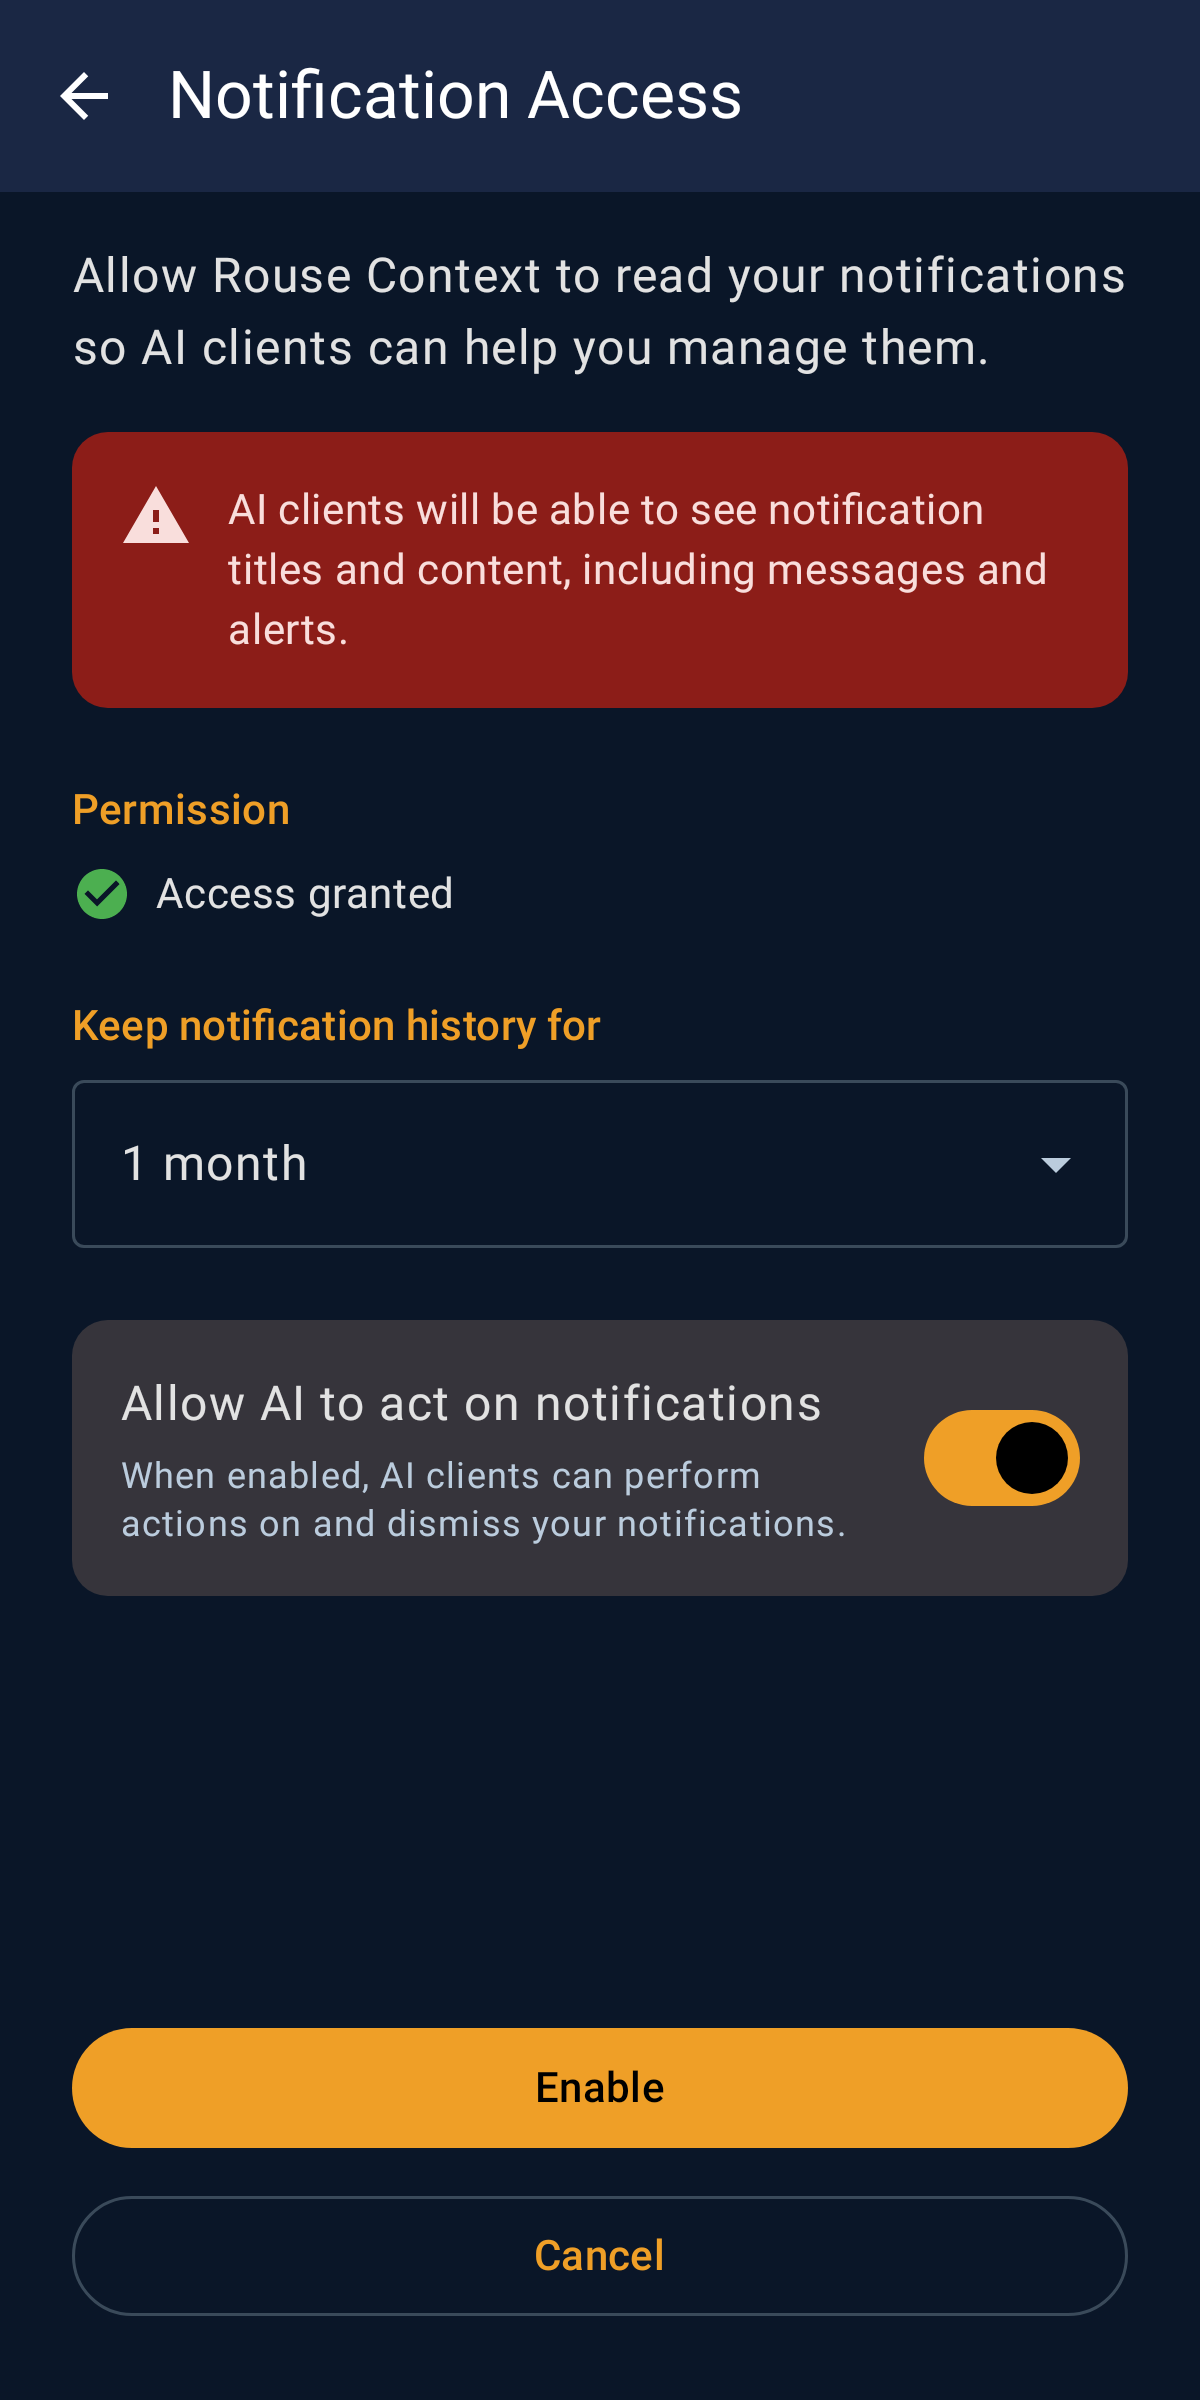
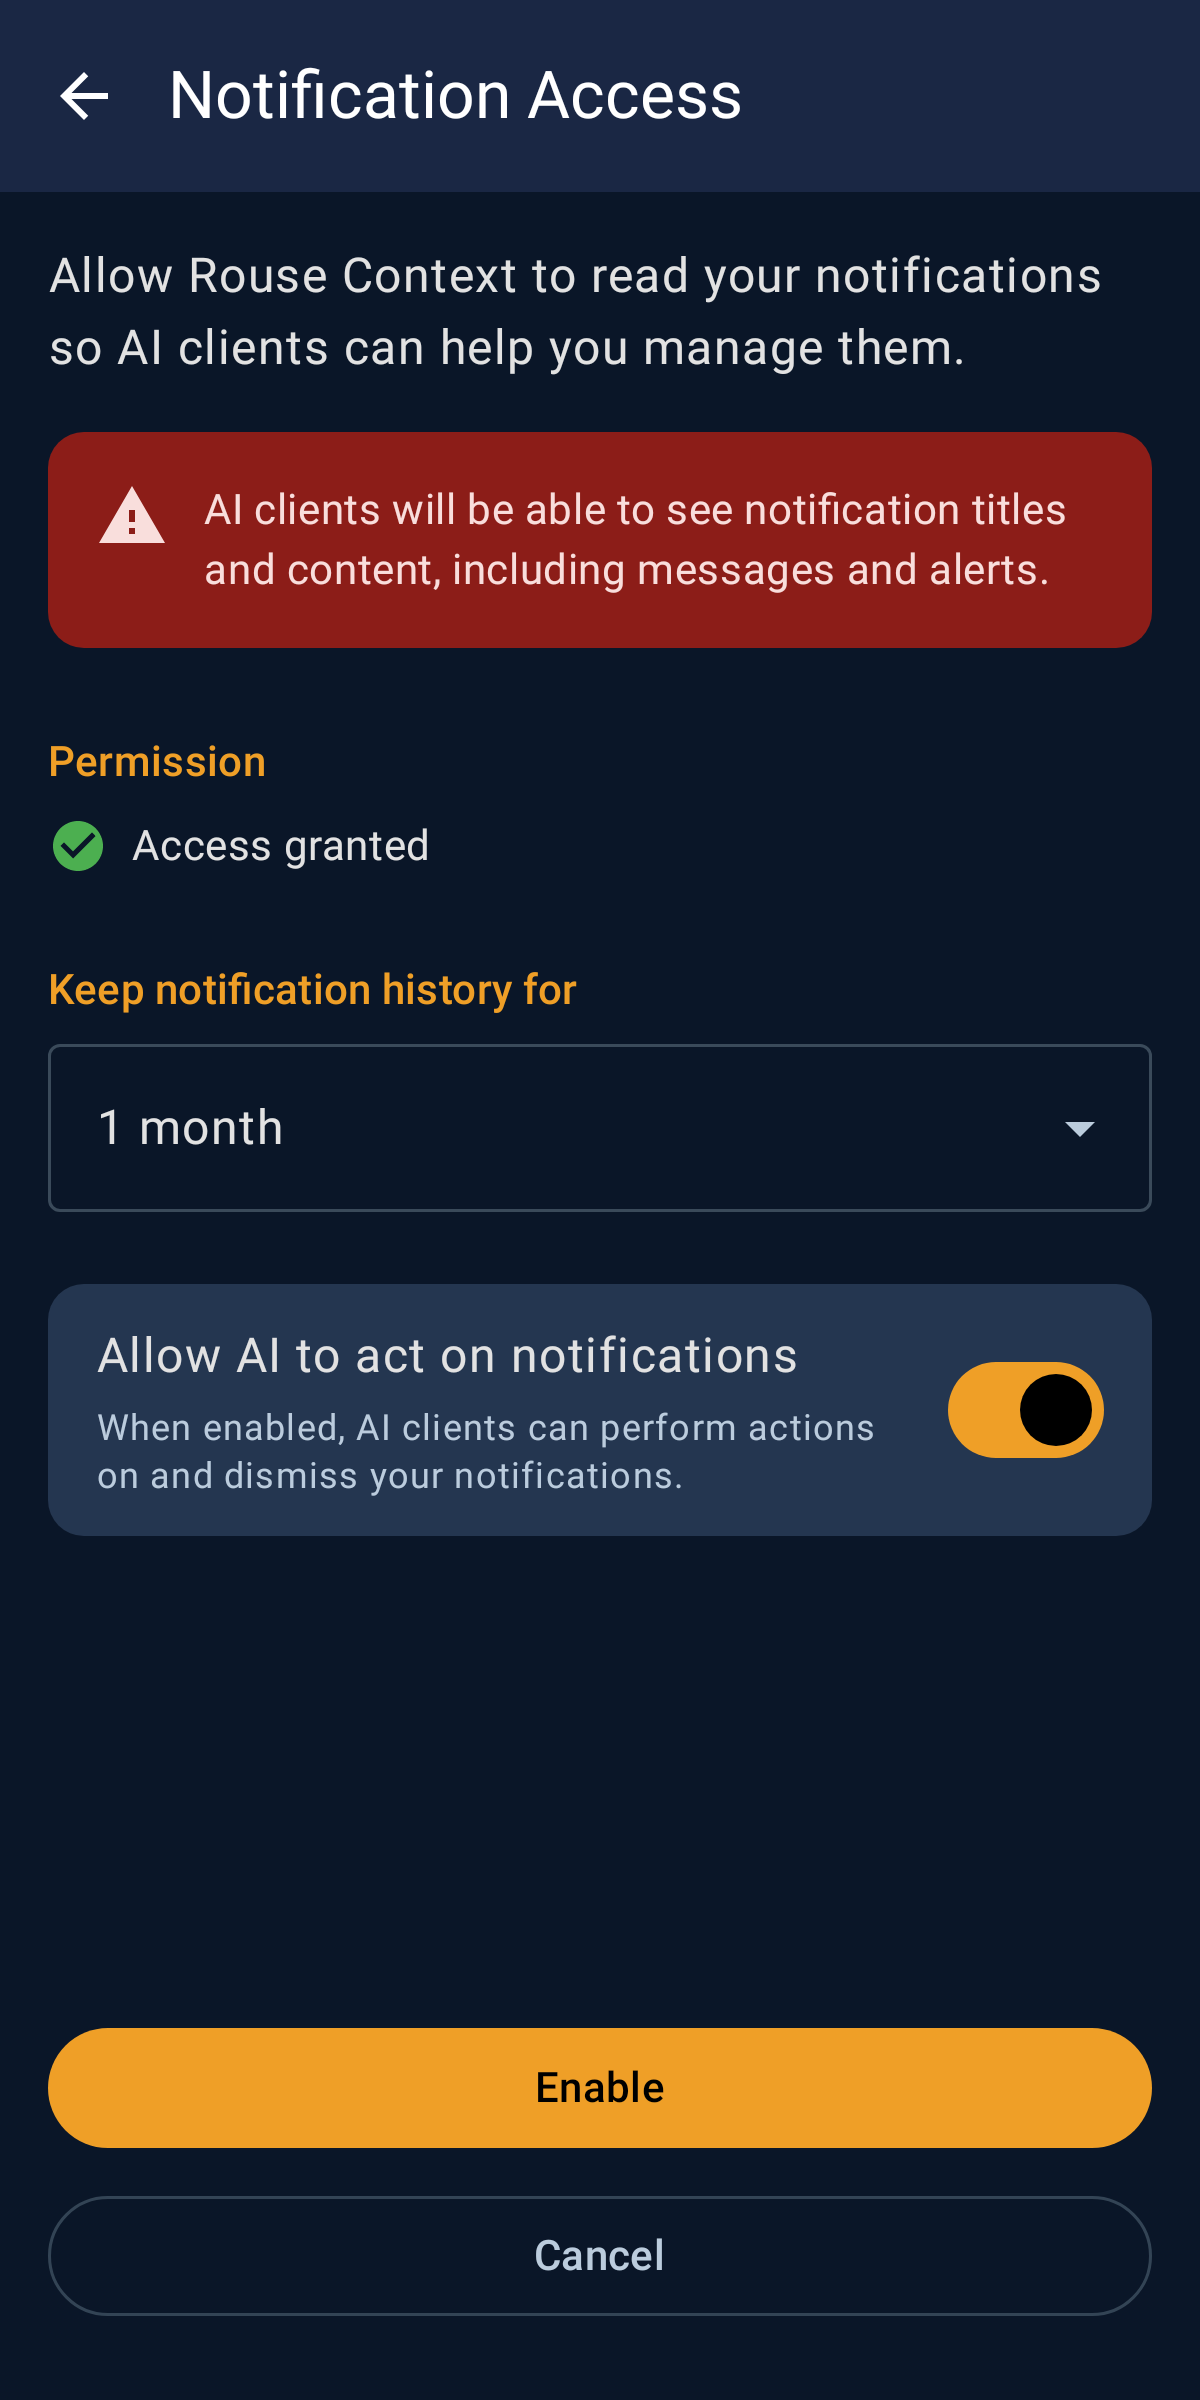
Fix #67: Standardize horizontal padding to 16dp and section header usage
Setup screens (Health Connect, Notifications, Outreach, Usage) were using
24dp horizontal padding while every other screen (Settings, AuditHistory,
Dashboard, AuditDetail, IntegrationManage, AddIntegrationPicker,
AllClients, NotificationPreferences, HealthConnectSettings) was using
16dp. 9 screens used 16dp and only 4 used 24dp, so 16dp is the majority
standard and matches Material3 phone guidance.

Also replaced manual Text(titleSmall/primary)-as-section-header calls
with the shared SectionHeader composable in five places so spacing and
color stay consistent:
- UsageSetupScreen: "Permission"
- OutreachSetupScreen: "Do Not Disturb Control"
- NotificationSetupScreen: "Permission" and "Keep notification history for"
- AllClientsScreen: integration name header

Regenerated setup-screen screenshot goldens. Other screenshot diffs from
a partial roborazzi record run were discarded as rendering noise.

diff --git a/app/src/main/java/com/rousecontext/app/ui/screens/NotificationSetupScreen.kt b/app/src/main/java/com/rousecontext/app/ui/screens/NotificationSetupScreen.kt
@@ -39,6 +39,7 @@ import androidx.compose.ui.Modifier
 import androidx.compose.ui.tooling.preview.Preview
 import androidx.compose.ui.unit.dp
 import com.rousecontext.app.ui.components.PrivacyWarningCard
+import com.rousecontext.app.ui.components.SectionHeader
 import com.rousecontext.app.ui.components.SwitchRow
 import com.rousecontext.app.ui.components.appBarColors
 import com.rousecontext.app.ui.theme.RouseContextTheme
@@ -121,7 +122,7 @@ private fun NotificationSetupBody(
     Column(
         modifier = modifier
             .fillMaxSize()
-            .padding(horizontal = 24.dp)
+            .padding(horizontal = 16.dp)
             .verticalScroll(rememberScrollState())
     ) {
         Spacer(modifier = Modifier.height(16.dp))
@@ -143,13 +144,7 @@ private fun NotificationSetupBody(
         Spacer(modifier = Modifier.height(24.dp))
 
         // Permission status
-        Text(
-            text = "Permission",
-            style = MaterialTheme.typography.titleSmall,
-            color = MaterialTheme.colorScheme.primary
-        )
-
-        Spacer(modifier = Modifier.height(8.dp))
+        SectionHeader("Permission")
 
         if (state.permissionGranted) {
             Row(verticalAlignment = Alignment.CenterVertically) {
@@ -177,13 +172,7 @@ private fun NotificationSetupBody(
         Spacer(modifier = Modifier.height(24.dp))
 
         // Retention picker
-        Text(
-            text = "Keep notification history for",
-            style = MaterialTheme.typography.titleSmall,
-            color = MaterialTheme.colorScheme.primary
-        )
-
-        Spacer(modifier = Modifier.height(8.dp))
+        SectionHeader("Keep notification history for")
 
         RetentionDropdown(
             selectedDays = state.retentionDays,

diff --git a/app/src/main/java/com/rousecontext/app/ui/screens/UsageSetupScreen.kt b/app/src/main/java/com/rousecontext/app/ui/screens/UsageSetupScreen.kt
@@ -29,6 +29,7 @@ import androidx.compose.ui.Modifier
 import androidx.compose.ui.tooling.preview.Preview
 import androidx.compose.ui.unit.dp
 import com.rousecontext.app.ui.components.PrivacyWarningCard
+import com.rousecontext.app.ui.components.SectionHeader
 import com.rousecontext.app.ui.components.appBarColors
 import com.rousecontext.app.ui.theme.RouseContextTheme
 import com.rousecontext.app.ui.theme.SuccessGreen
@@ -99,7 +100,7 @@ private fun UsageSetupBody(
     Column(
         modifier = modifier
             .fillMaxSize()
-            .padding(horizontal = 24.dp)
+            .padding(horizontal = 16.dp)
             .verticalScroll(rememberScrollState())
     ) {
         Spacer(modifier = Modifier.height(16.dp))
@@ -122,13 +123,7 @@ private fun UsageSetupBody(
         Spacer(modifier = Modifier.height(24.dp))
 
         // Permission status
-        Text(
-            text = "Permission",
-            style = MaterialTheme.typography.titleSmall,
-            color = MaterialTheme.colorScheme.primary
-        )
-
-        Spacer(modifier = Modifier.height(8.dp))
+        SectionHeader("Permission")
 
         if (state.permissionGranted) {
             Row(verticalAlignment = Alignment.CenterVertically) {

diff --git a/app/src/main/java/com/rousecontext/app/ui/screens/OutreachSetupScreen.kt b/app/src/main/java/com/rousecontext/app/ui/screens/OutreachSetupScreen.kt
@@ -30,6 +30,7 @@ import androidx.compose.ui.Alignment
 import androidx.compose.ui.Modifier
 import androidx.compose.ui.tooling.preview.Preview
 import androidx.compose.ui.unit.dp
+import com.rousecontext.app.ui.components.SectionHeader
 import com.rousecontext.app.ui.components.SwitchRow
 import com.rousecontext.app.ui.components.appBarColors
 import com.rousecontext.app.ui.theme.RouseContextTheme
@@ -106,7 +107,7 @@ private fun OutreachSetupBody(
     Column(
         modifier = modifier
             .fillMaxSize()
-            .padding(horizontal = 24.dp)
+            .padding(horizontal = 16.dp)
             .verticalScroll(rememberScrollState())
     ) {
         Spacer(modifier = Modifier.height(16.dp))
@@ -136,13 +137,7 @@ private fun OutreachSetupBody(
         Spacer(modifier = Modifier.height(24.dp))
 
         // DND section
-        Text(
-            text = "Do Not Disturb Control",
-            style = MaterialTheme.typography.titleSmall,
-            color = MaterialTheme.colorScheme.primary
-        )
-
-        Spacer(modifier = Modifier.height(8.dp))
+        SectionHeader("Do Not Disturb Control")
 
         Card(modifier = Modifier.fillMaxWidth()) {
             SwitchRow(

diff --git a/app/src/main/java/com/rousecontext/app/ui/screens/AllClientsScreen.kt b/app/src/main/java/com/rousecontext/app/ui/screens/AllClientsScreen.kt
@@ -24,6 +24,7 @@ import androidx.compose.ui.tooling.preview.Preview
 import androidx.compose.ui.unit.dp
 import com.rousecontext.app.ui.components.ListDivider
 import com.rousecontext.app.ui.components.ListRow
+import com.rousecontext.app.ui.components.SectionHeader
 import com.rousecontext.app.ui.navigation.ConfigureNavBar
 import com.rousecontext.app.ui.theme.RouseContextTheme
 
@@ -51,12 +52,7 @@ fun AllClientsContent(
         Spacer(modifier = Modifier.height(12.dp))
 
         if (integrationName.isNotEmpty()) {
-            Text(
-                text = integrationName,
-                style = MaterialTheme.typography.titleSmall,
-                color = MaterialTheme.colorScheme.primary,
-                modifier = Modifier.padding(bottom = 8.dp)
-            )
+            SectionHeader(integrationName)
         }
 
         if (clients.isEmpty()) {

diff --git a/app/src/main/java/com/rousecontext/app/ui/screens/HealthConnectSetupScreen.kt b/app/src/main/java/com/rousecontext/app/ui/screens/HealthConnectSetupScreen.kt
@@ -99,7 +99,7 @@ private fun HealthConnectSetupBody(
     Column(
         modifier = modifier
             .fillMaxSize()
-            .padding(horizontal = 24.dp)
+            .padding(horizontal = 16.dp)
             .verticalScroll(rememberScrollState())
     ) {
         Spacer(modifier = Modifier.height(16.dp))
